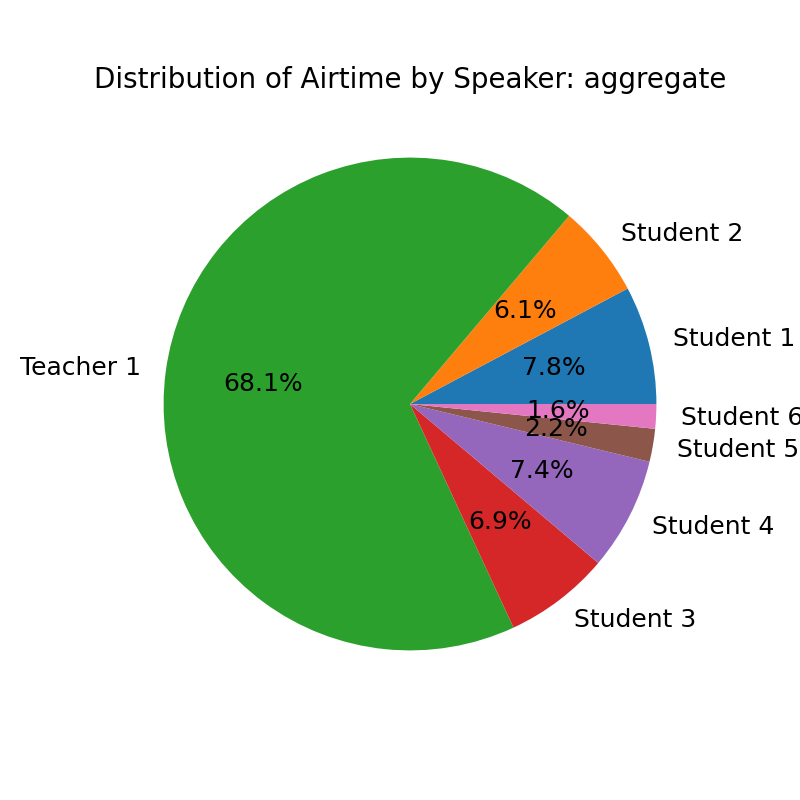
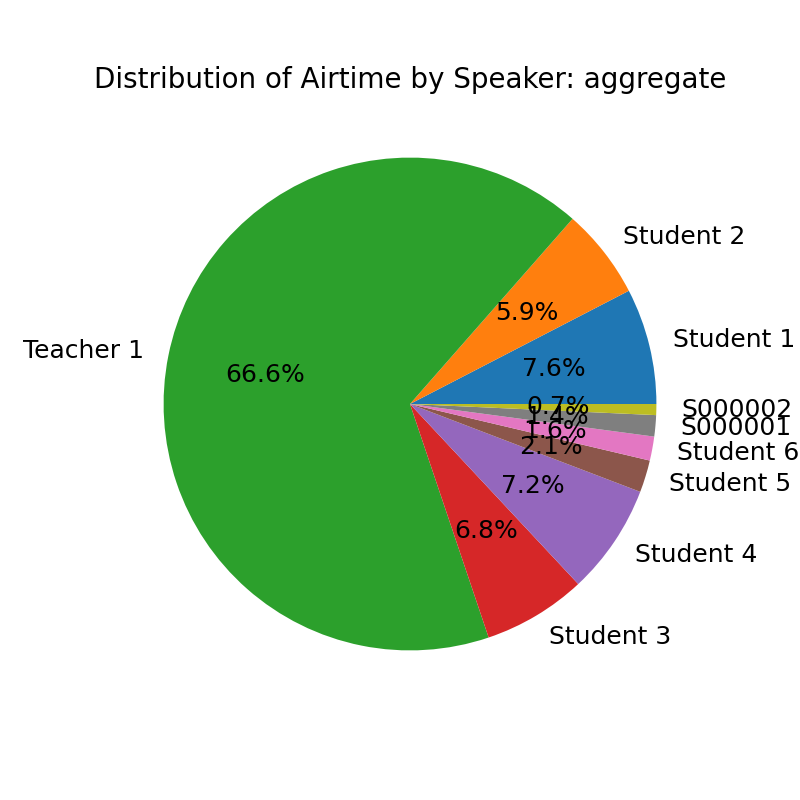
update regex to align with identity coding changes

diff --git a/utils.py b/utils.py
@@ -16,13 +16,18 @@ from extensions import db, cache
 
 # Parse transcript text (assumes ELAN format)
 # Return [{'speaker': ____, 'speech':___, 'timestamp':____}, {...}]
+
 def parse_transcript(text):
     # Compile a regular expression pattern to match speaker names (Student or Teacher followed by a digit),
     # followed by their speech, and then a timestamp in a specific format.
    #pattern = re.compile(r"^(Student \d+|Teacher \d+)\s+(.*?)\n\s+(\d{2}:\d{2}:\d{2}\.\d{3}\s*-\s*\d{2}:\d{2}:\d{2}\.\d{3})", re.MULTILINE | re.DOTALL)
    
-    pattern = re.compile(r"^(Student \d+|Teacher \d+)\s+(.+?)\s+(\d{2}:\d{2}:\d{2}\.\d{3}\s*-\s*\d{2}:\d{2}:\d{2}\.\d{3})", re.MULTILINE | re.DOTALL)
+    #pattern = re.compile(r"^(Student \d+|Teacher \d+)\s+(.+?)\s+(\d{2}:\d{2}:\d{2}\.\d{3}\s*-\s*\d{2}:\d{2}:\d{2}\.\d{3})", re.MULTILINE | re.DOTALL)
 
+    pattern = re.compile(
+        r"^(Student \d+|Teacher \d+|S\d+|T\d+)\s+(.*?)\s*^TC\s+(\d{2}:\d{2}:\d{2}\.\d{3}\s*-\s*\d{2}:\d{2}:\d{2}\.\d{3})",
+        re.MULTILINE | re.DOTALL
+    )
     transcript_data = []
    
     # Use the compiled pattern to find all matches (segments) in the text
